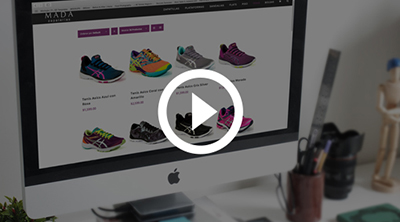
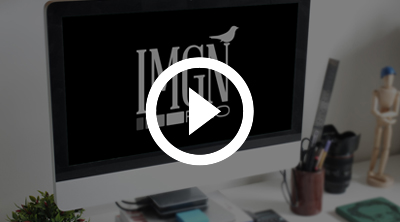
se cambió el video de la pagina "como2" y el tumbnail del video

diff --git a/views/como2.html b/views/como2.html
@@ -51,7 +51,7 @@
         <div>
             <a onclick="setCurTime()" href="#close" title="Close" Class="close">X</a>
             <h1 class="encabezado">Video Tutorial</h1>
-            <video id="videoTutorial" poster="../images/tumbnail_video.jpg" width="400" preload="auto" controls><source src="../videos/big_buck_bunny.mp4" type="video/mp4"></video>
+            <video id="videoTutorial" poster="../images/tumbnail_video.jpg" width="400" preload="auto" controls><source src="../videos/videoIntroIMGNpro.mp4" type="video/mp4"></video>
         </div>
     </div>
         
